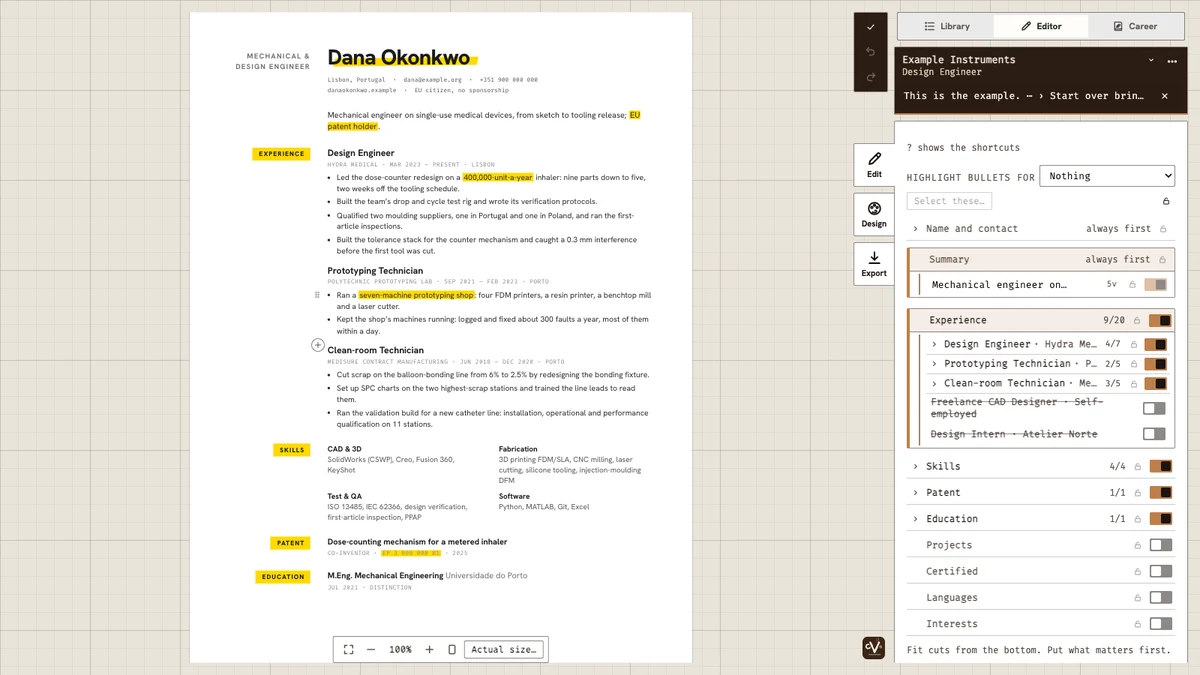
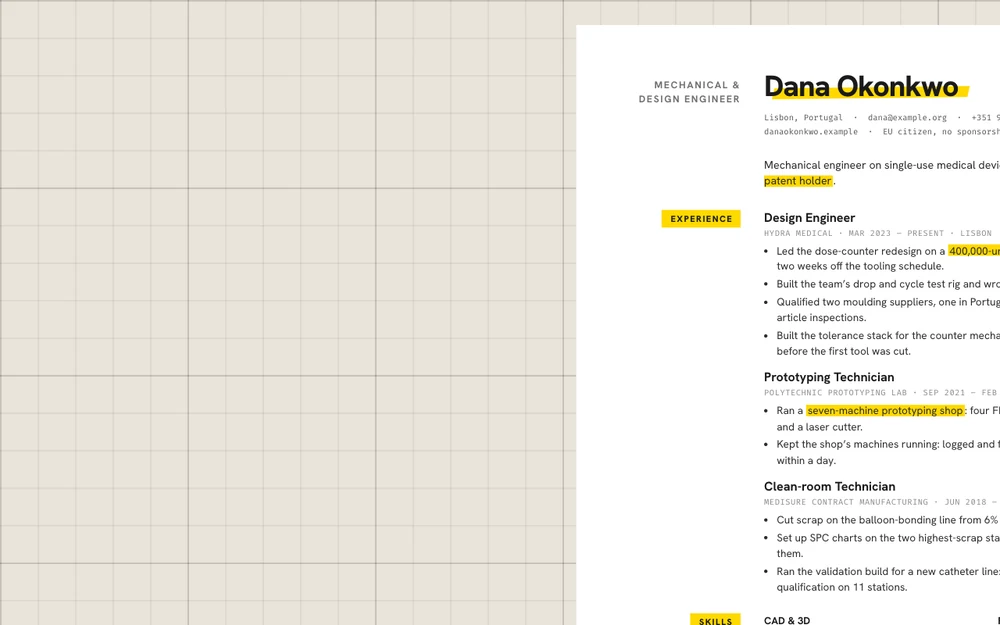
README: a calmer tea garden picture (a few leaves and a ladybug on the mat, the corner of the resume) and a matching coffee one

diff --git a/README.md b/README.md
@@ -73,8 +73,8 @@ The app asks what you're drinking and keeps your answer (Shift+F switches in pla
 
 <table>
 <tr>
-<td align="center" width="50%"><img src="docs/intro/tea-garden.webp" alt="The tea workspace with leaves, petals and rain spots drifting over the bamboo mat and the page"><br><b>Tea: a garden while you rest</b></td>
-<td align="center" width="50%"><img src="docs/intro/coffee-focus.webp" alt="The coffee workspace in monospace type with square corners and no shadows"><br><b>Coffee: just the work</b></td>
+<td align="center" width="50%"><img src="docs/intro/tea-garden.webp" alt="A few leaves and a ladybug resting on the bamboo mat beside the corner of a resume"><br><b>Tea: a garden while you rest</b></td>
+<td align="center" width="50%"><img src="docs/intro/coffee-focus.webp" alt="The coffee workspace: a plain graph-paper mat beside the same resume, with nothing moving"><br><b>Coffee: just the work</b></td>
 </tr>
 </table>
 
